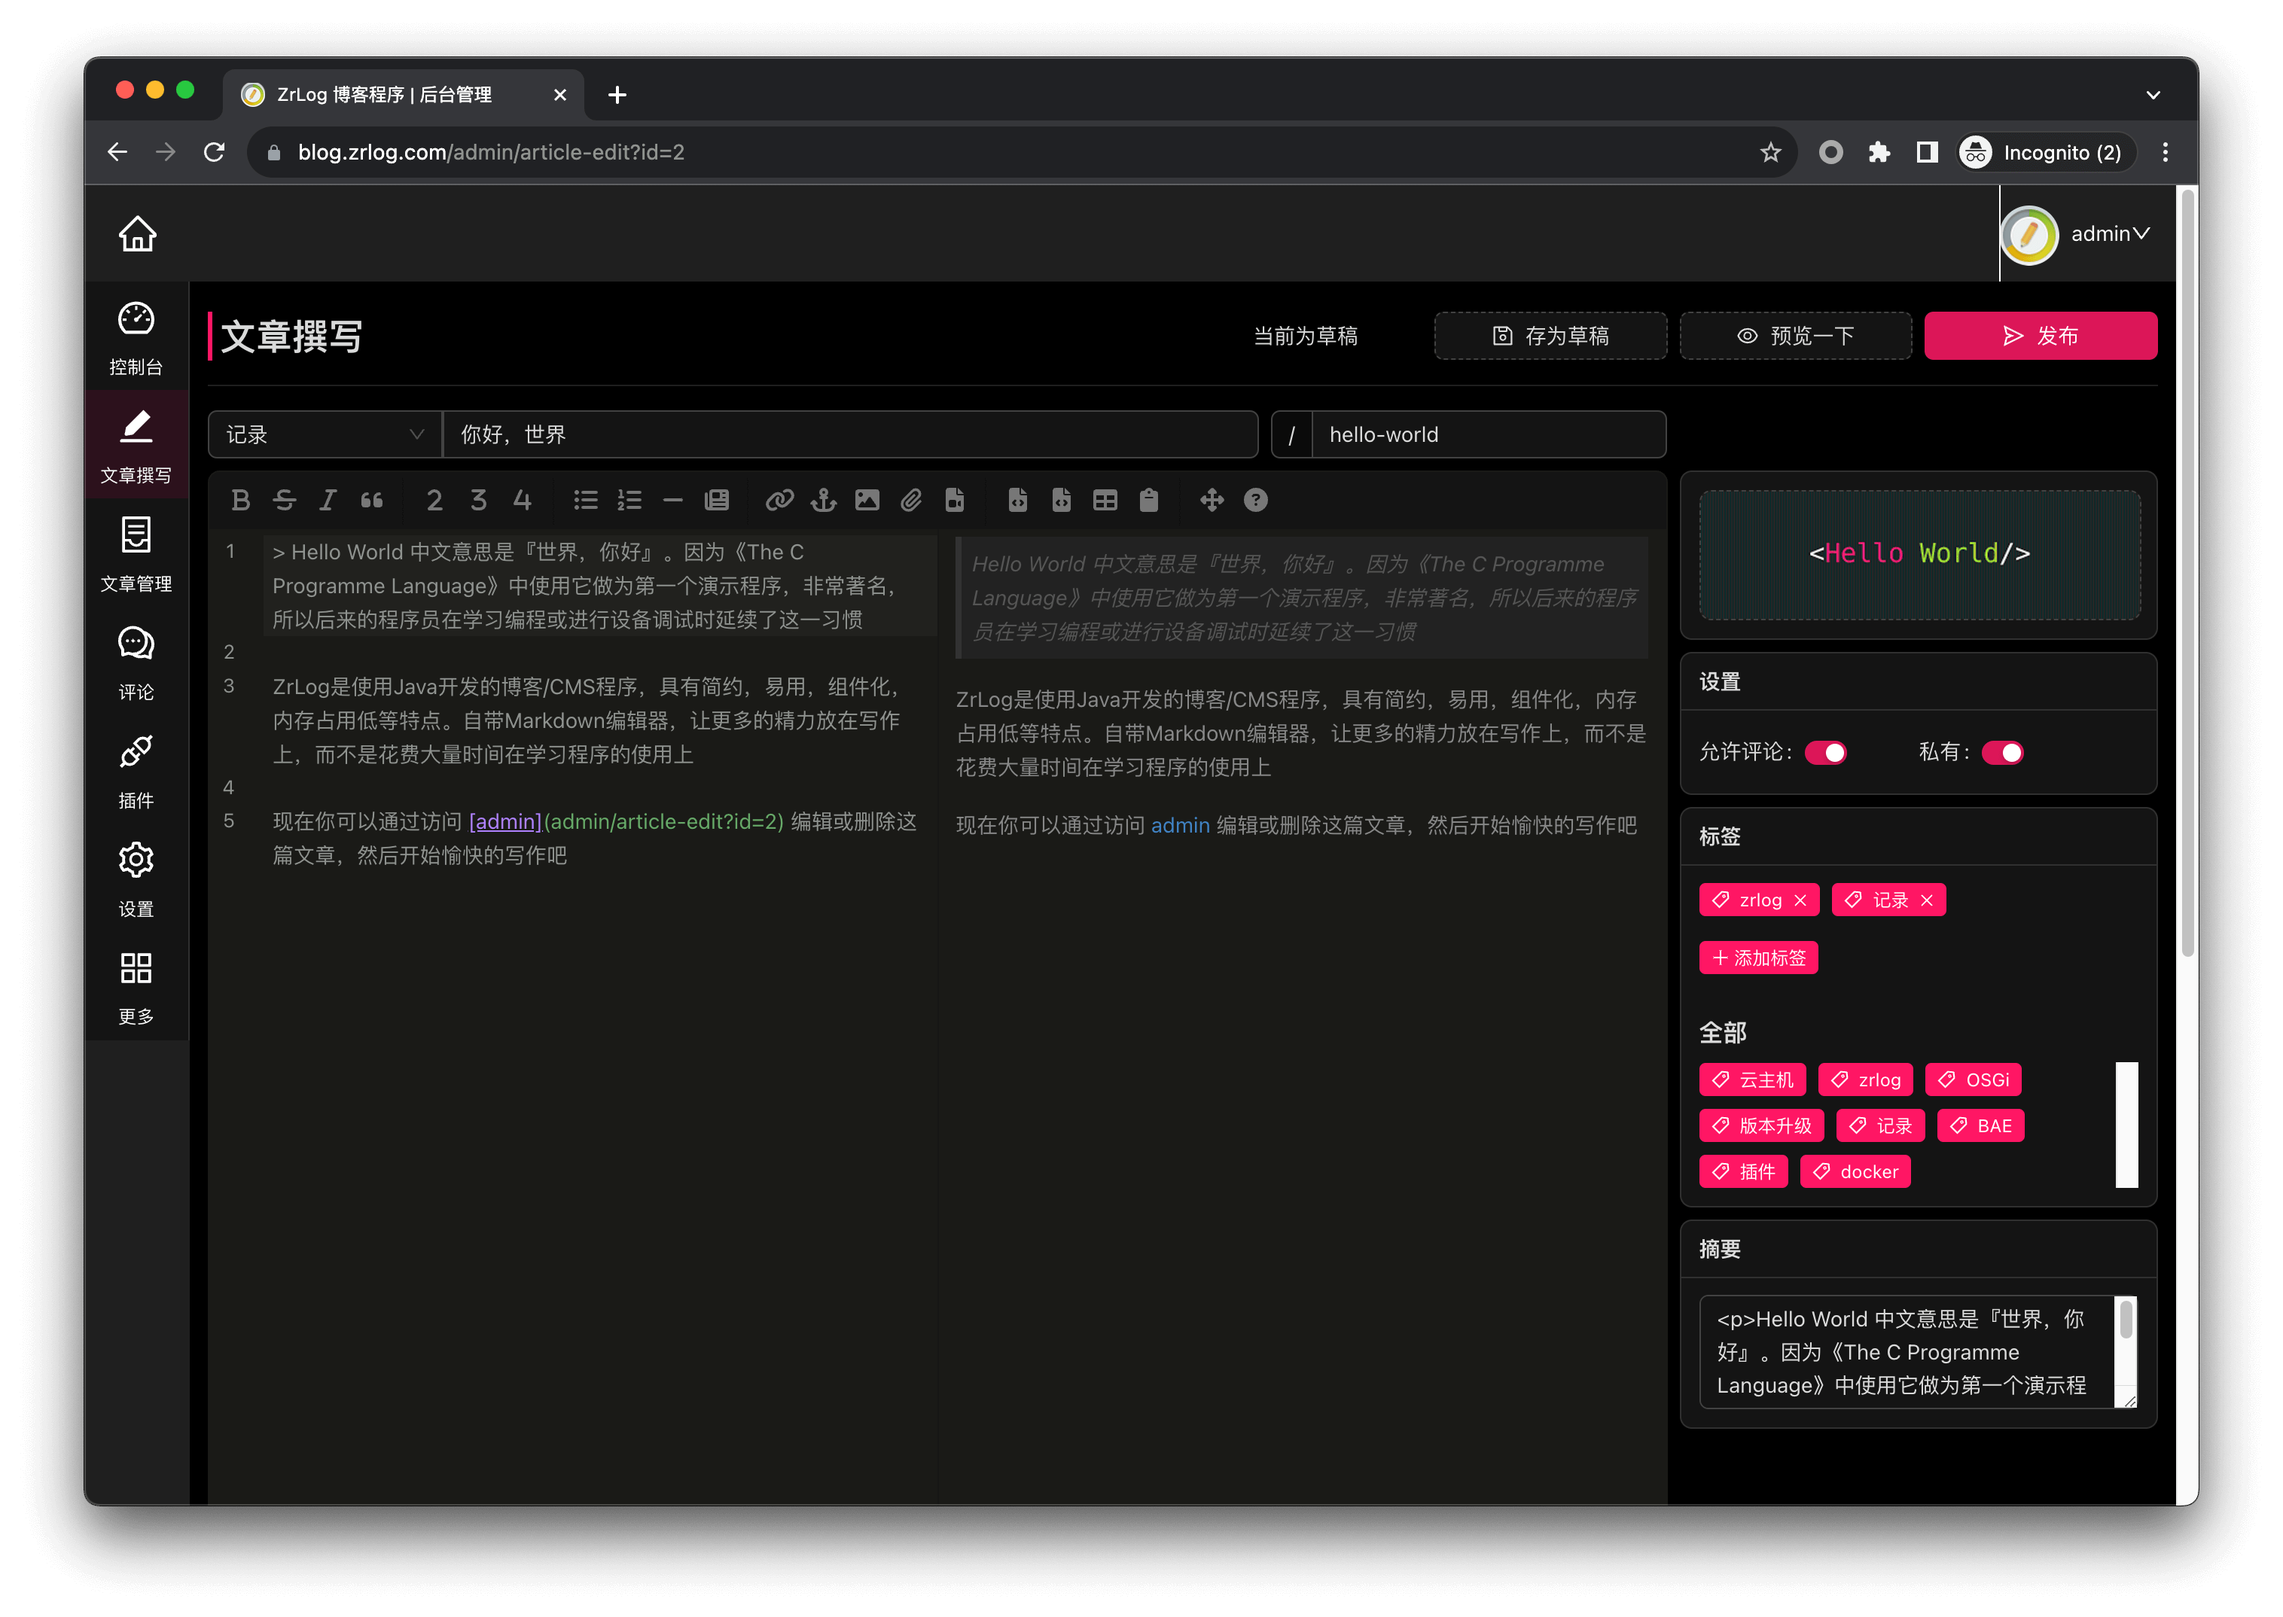
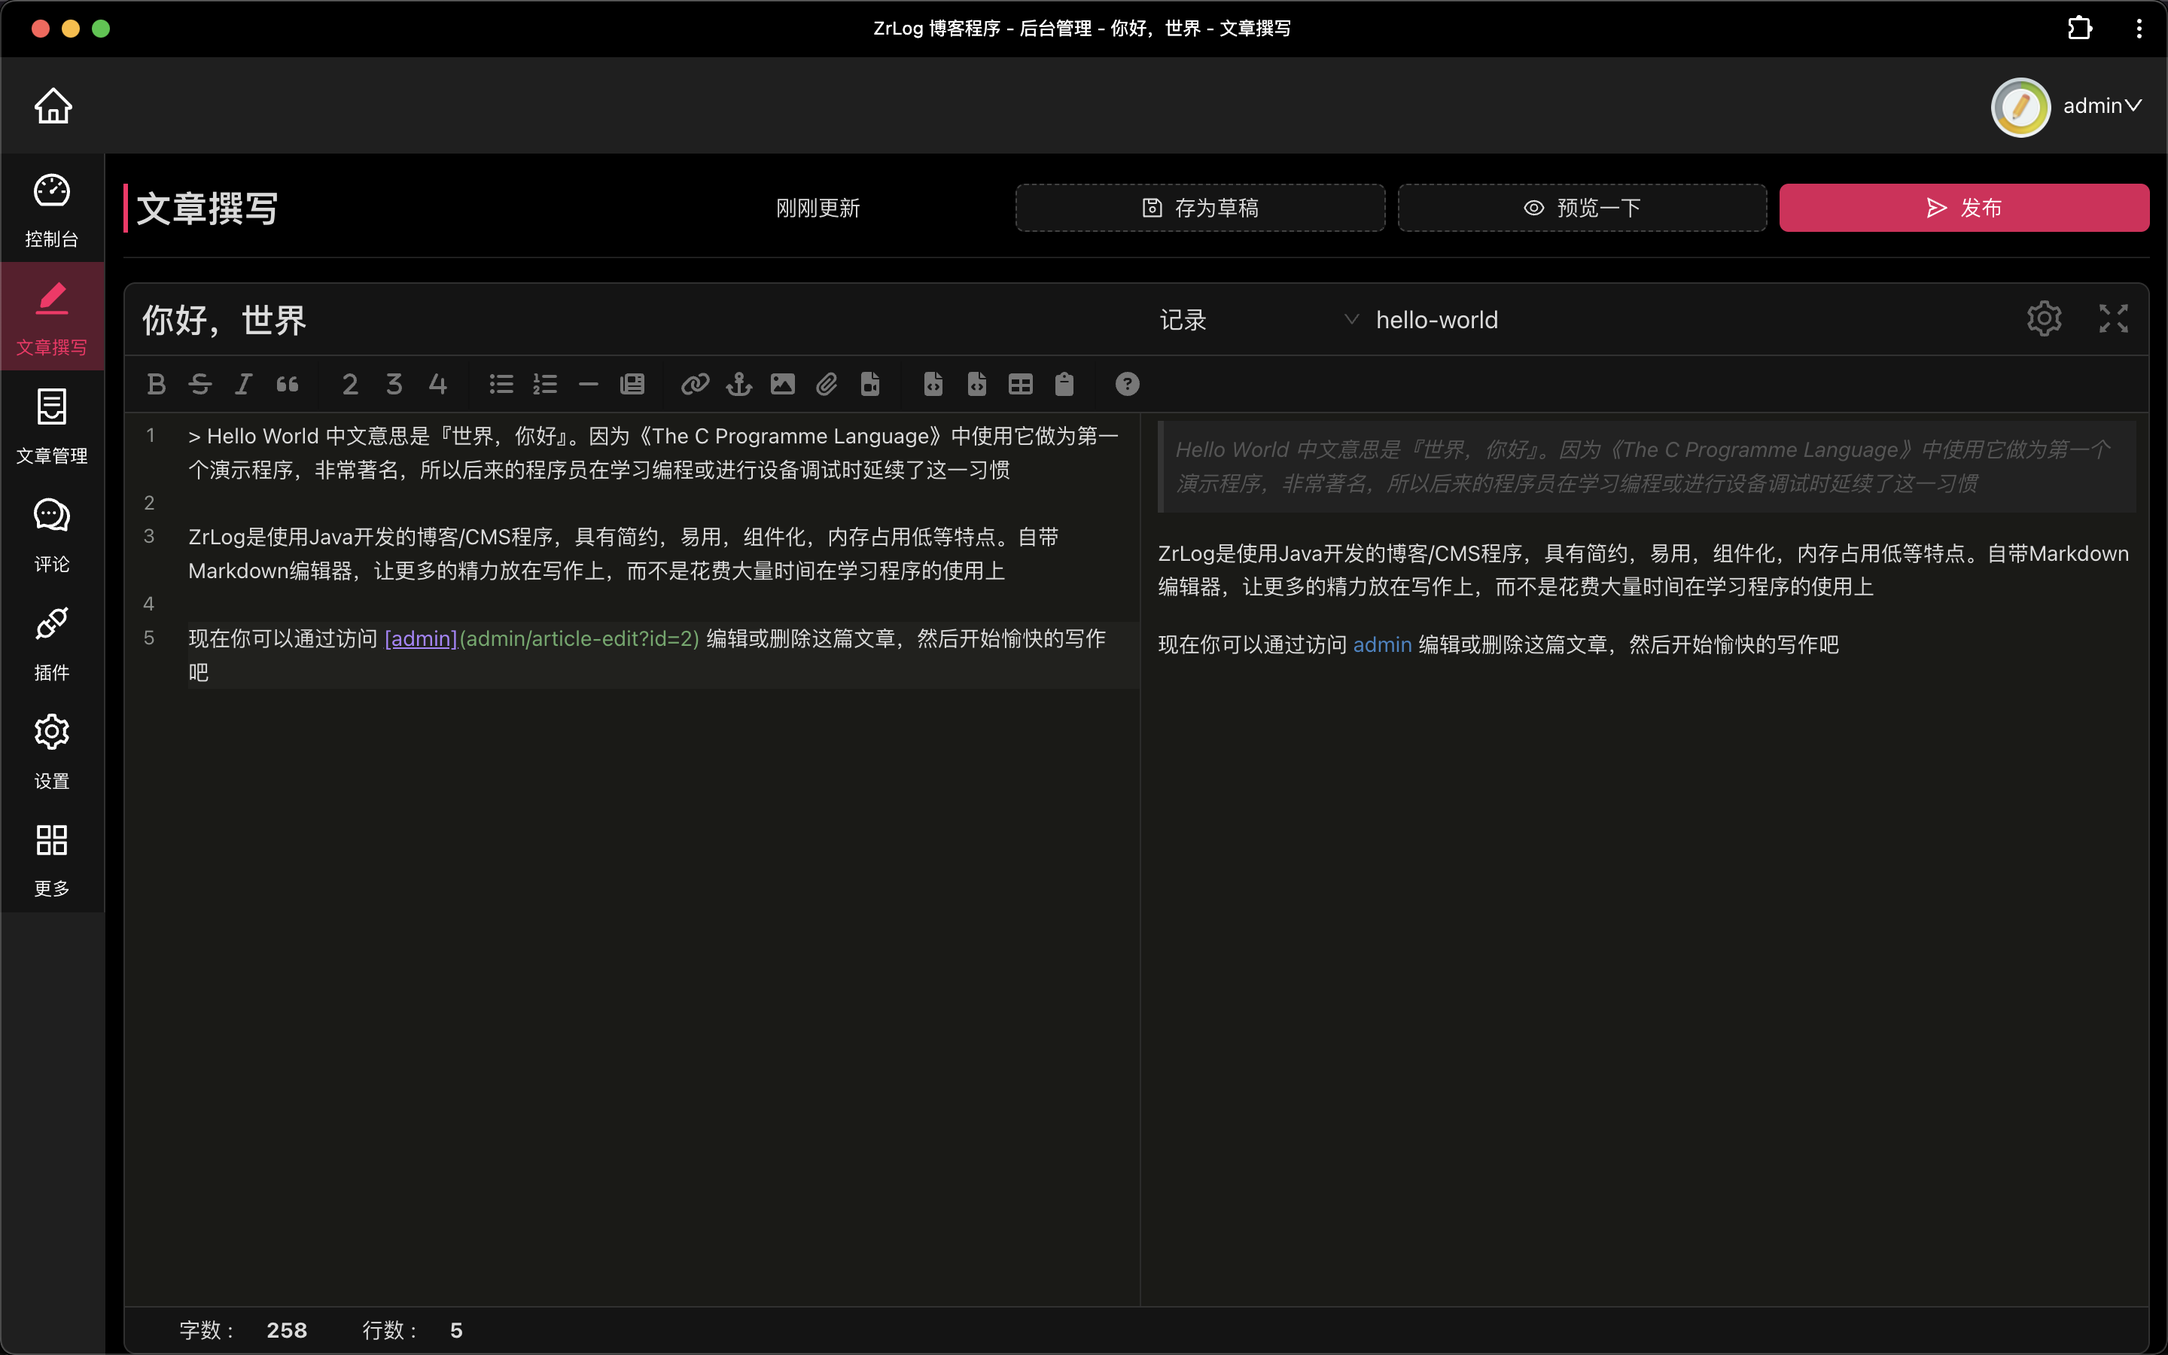
🚀🚀🚀 Released 3.1.1

diff --git a/static/changelog/3.1.1-ebab700.md b/static/changelog/3.1.1-ebab700.md
@@ -1,0 +1,20 @@
+### 3.1.1 (2024-08-19)
+
+#### 优化
+
+- 简化编辑页面，文章的封面，标签等信息，改为使用弹出框进行设置
+- 优化全屏编辑，全屏编辑状态下，显示更加完整
+- 优化暗黑模式下编辑区预览的样式
+- 对于文章页文章过多的情况，可配置每页显示的数量，便于管理
+- 服务启动时显示程序的版本信息，便于跟踪
+- 优化登录成功的跳转（该用客户端路由，载入更快）
+- 限制网站设置里面的部分配置项的长度
+- 升级 antd 的版本到 `5.20.1`
+
+#### 修复
+
+- editormd 通过文章管理页面进入编辑页面时，首次不渲染预览区域
+- 修复部分自动抓取文章封面时非正常情况
+- 全屏编辑下提示框和弹出框不能正确显示
+- 针对管理后台的相关配置项进行 `xxs` 过滤
+- 修复缓存的静态化后 html 的首页更新不及时
